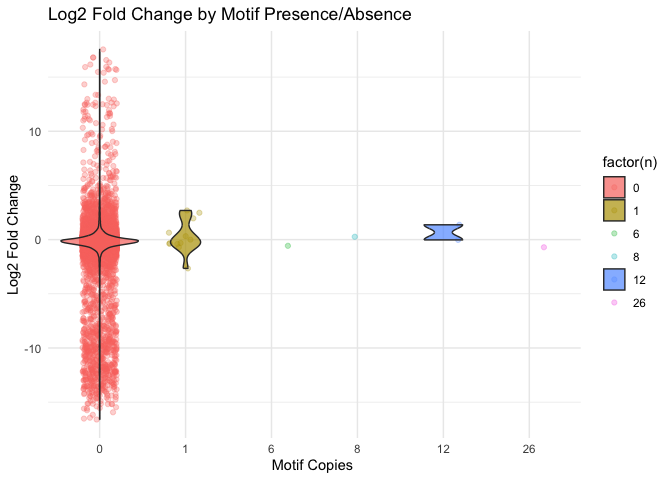
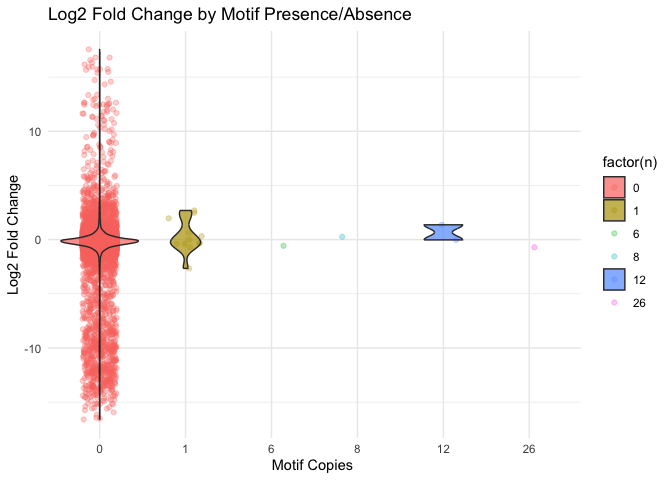
update TF plots

diff --git a/code/04-TFs.md b/code/04-TFs.md
@@ -837,7 +837,7 @@ fimo_counts_DE <- fimo_counts %>% filter(padj < 0.05)
 fimo_counts %>% mutate(n_motif= as.character(n_motif)) %>% 
   tidyplot(x = n_motif,  y = log2FoldChange, color = n_motif) %>%
   add_data_points_jitter(size = 1.5, jitter_width = 0.5, alpha=0.5) %>%
-  add_violin(alpha = 0.8,color="black", width=0.3, linewidth = 0.5, trim=TRUE)  %>%
+  add_violin(alpha = 0.8,color="black", width=0.3, linewidth = 0.5, trim=TRUE) %>%
   add_mean_dot(color="black",shape=23, fill="white", size=2) %>%
   adjust_y_axis(limits = c(-17,19.9)) %>%
   add_title("Log Fold Change by Motif Presence: All Genes") %>%
@@ -849,13 +849,59 @@ fimo_counts %>% mutate(n_motif= as.character(n_motif)) %>%
   theme_minimal_y(fontsize = 14) %>% remove_x_axis_ticks() %>%
   remove_legend() %>% remove_x_axis_line() %>% 
   adjust_title(face = "bold") %>%
-  save_plot("../output_RNA/differential_expression/TFs/fimo_output_upOralEpi/fimo_motif6.png",
+  save_plot("../output_RNA/differential_expression/TFs/fimo_output_upOralEpi/fimo_motif3.png",
             width = 8, height = 6, units="in",bg = "transparent")
 ```
 
-    ## ✔ save_plot: saved to '../output_RNA/differential_expression/TFs/fimo_output_upOralEpi/fimo_motif6.png'
+    ## ✔ save_plot: saved to '../output_RNA/differential_expression/TFs/fimo_output_upOralEpi/fimo_motif3.png'
 
 ![](04-TFs_files/figure-gfm/unnamed-chunk-13-1.png)<!-- -->
+
+``` r
+fimo_counts %>% mutate(n_motif= as.character(n_motif)) %>% 
+  tidyplot(x = log2FoldChange, color = n_motif) %>% 
+  adjust_size(width = NA, height = NA) %>%
+  add_reference_lines(x=0) %>%
+  add(ggplot2::geom_density(alpha=0.4,  aes(x = log2FoldChange,after_stat(scaled))))  %>%
+  add(coord_cartesian(ylim = c(0, 0.03))) %>%
+  add_title("Log Fold Change by Motif Presence: All Genes") %>%
+  adjust_y_axis_title("Density") %>% 
+  adjust_x_axis_title("$Log[2]~Fold~Change$") %>%
+  adjust_legend_title("Motif Count") %>%
+  #adjust_colors(new_colors= c("#66C2A5", "#FC8D62", "#8DA0CB"))  %>%
+  adjust_size(width = NA, height = NA) %>%
+  theme_minimal_y(fontsize = 14) %>% 
+  adjust_title(face = "bold") %>%
+  save_plot("../output_RNA/differential_expression/TFs/fimo_output_upOralEpi/fimo_motif3_density.png",
+            width = 8, height = 6, units="in",bg = "transparent")
+```
+
+    ## ✔ save_plot: saved to '../output_RNA/differential_expression/TFs/fimo_output_upOralEpi/fimo_motif3_density.png'
+
+![](04-TFs_files/figure-gfm/unnamed-chunk-13-2.png)<!-- -->
+
+``` r
+fimo_counts %>% mutate(n_motif= as.character(n_motif)) %>% 
+  tidyplot(x = log2FoldChange, color = n_motif) %>% 
+  adjust_size(width = NA, height = NA) %>%
+  add_reference_lines(x=0) %>%
+  add(ggplot2::geom_density(alpha=0.4,  aes(x = log2FoldChange,after_stat(scaled))))  %>%
+  #add(coord_cartesian(ylim = c(0, 0.05))) %>%
+  add_title("Log Fold Change by Motif Presence: All Genes") %>%
+  adjust_y_axis_title("Density") %>% 
+  adjust_x_axis_title("$Log[2]~Fold~Change$") %>%
+  adjust_legend_title("Motif Count") %>%
+  #adjust_colors(new_colors= c("#66C2A5", "#FC8D62", "#8DA0CB"))  %>%
+  adjust_size(width = NA, height = NA) %>%
+  theme_minimal_y(fontsize = 14) %>% 
+  adjust_title(face = "bold") %>%
+  save_plot("../output_RNA/differential_expression/TFs/fimo_output_upOralEpi/fimo_motif3_density_full.png",
+            width = 8, height = 6, units="in",bg = "transparent")
+```
+
+    ## ✔ save_plot: saved to '../output_RNA/differential_expression/TFs/fimo_output_upOralEpi/fimo_motif3_density_full.png'
+
+![](04-TFs_files/figure-gfm/unnamed-chunk-13-3.png)<!-- -->
 
 ``` r
 fimo_counts_DE  %>% mutate(n_motif= as.character(n_motif)) %>% 
@@ -873,13 +919,59 @@ fimo_counts_DE  %>% mutate(n_motif= as.character(n_motif)) %>%
   theme_minimal_y(fontsize = 15) %>% remove_x_axis_ticks() %>%
   remove_legend() %>% remove_x_axis_line() %>% 
   adjust_title(face = "bold") %>%
-  save_plot("../output_RNA/differential_expression/TFs/fimo_output_upOralEpi/fimo_motif6_DE.png",
+  save_plot("../output_RNA/differential_expression/TFs/fimo_output_upOralEpi/fimo_motif3_DE.png",
             width = 8, height = 6, units="in", bg = "transparent")
 ```
 
-    ## ✔ save_plot: saved to '../output_RNA/differential_expression/TFs/fimo_output_upOralEpi/fimo_motif6_DE.png'
+    ## ✔ save_plot: saved to '../output_RNA/differential_expression/TFs/fimo_output_upOralEpi/fimo_motif3_DE.png'
 
-![](04-TFs_files/figure-gfm/unnamed-chunk-13-2.png)<!-- -->
+![](04-TFs_files/figure-gfm/unnamed-chunk-13-4.png)<!-- -->
+
+``` r
+fimo_counts_DE %>% mutate(n_motif= as.character(n_motif)) %>% 
+  tidyplot(x = log2FoldChange, color = n_motif) %>% 
+  adjust_size(width = NA, height = NA) %>%
+  add_reference_lines(x=0) %>%
+  add(ggplot2::geom_density(alpha=0.4,  aes(x = log2FoldChange,after_stat(scaled))))  %>%
+  add(coord_cartesian(ylim = c(0, 0.15))) %>%
+  add_title("Log Fold Change by Motif Presence: DE Genes") %>%
+  adjust_y_axis_title("Density") %>% 
+  adjust_x_axis_title("$Log[2]~Fold~Change$") %>%
+  adjust_legend_title("Motif Count") %>%
+  #adjust_colors(new_colors= c("#66C2A5", "#FC8D62", "#8DA0CB"))  %>%
+  adjust_size(width = NA, height = NA) %>%
+  theme_minimal_y(fontsize = 14) %>% 
+  adjust_title(face = "bold") %>%
+  save_plot("../output_RNA/differential_expression/TFs/fimo_output_upOralEpi/fimo_motif3_DE_density.png",
+            width = 8, height = 6, units="in",bg = "transparent")
+```
+
+    ## ✔ save_plot: saved to '../output_RNA/differential_expression/TFs/fimo_output_upOralEpi/fimo_motif3_DE_density.png'
+
+![](04-TFs_files/figure-gfm/unnamed-chunk-13-5.png)<!-- -->
+
+``` r
+fimo_counts_DE %>% mutate(n_motif= as.character(n_motif)) %>% 
+  tidyplot(x = log2FoldChange, color = n_motif) %>% 
+  adjust_size(width = NA, height = NA) %>%
+  add_reference_lines(x=0) %>%
+  add(ggplot2::geom_density(alpha=0.4,  aes(x = log2FoldChange,after_stat(scaled))))  %>%
+  #add(coord_cartesian(ylim = c(0, 0.25))) %>%
+  add_title("Log Fold Change by Motif Presence: DE Genes") %>%
+  adjust_y_axis_title("Density") %>% 
+  adjust_x_axis_title("$Log[2]~Fold~Change$") %>%
+  adjust_legend_title("Motif Count") %>%
+  #adjust_colors(new_colors= c("#66C2A5", "#FC8D62", "#8DA0CB"))  %>%
+  adjust_size(width = NA, height = NA) %>%
+  theme_minimal_y(fontsize = 14) %>% 
+  adjust_title(face = "bold") %>%
+  save_plot("../output_RNA/differential_expression/TFs/fimo_output_upOralEpi/fimo_motif3_DE_density_full.png",
+            width = 8, height = 6, units="in",bg = "transparent")
+```
+
+    ## ✔ save_plot: saved to '../output_RNA/differential_expression/TFs/fimo_output_upOralEpi/fimo_motif3_DE_density_full.png'
+
+![](04-TFs_files/figure-gfm/unnamed-chunk-13-6.png)<!-- -->
 
 **Wow! It looks like the presence of this motif may be reflected in
 log2FoldChange! The genes with 1 or 2 sites have predominately negative
@@ -945,11 +1037,11 @@ fimo_counts %>% mutate(n_motif = as.character(n_motif)) %>%
   adjust_x_axis_title("Number of Motifs in Promoter") %>%
   adjust_title(face = "bold") %>% 
   add(ggpubr::stat_pvalue_manual(fisher_allgenes)) %>%
-  save_plot("../output_RNA/differential_expression/TFs/fimo_output_upOralEpi/fimo_motif6_LFC_direction.png",
+  save_plot("../output_RNA/differential_expression/TFs/fimo_output_upOralEpi/fimo_motif3_LFC_direction.png",
             width = 8, height = 6, units="in",bg = "transparent") 
 ```
 
-    ## ✔ save_plot: saved to '../output_RNA/differential_expression/TFs/fimo_output_upOralEpi/fimo_motif6_LFC_direction.png'
+    ## ✔ save_plot: saved to '../output_RNA/differential_expression/TFs/fimo_output_upOralEpi/fimo_motif3_LFC_direction.png'
 
 ![](04-TFs_files/figure-gfm/unnamed-chunk-15-1.png)<!-- -->
 
@@ -966,11 +1058,11 @@ fimo_counts_DE %>% mutate(n_motif = as.character(n_motif)) %>%
   adjust_x_axis_title("Number of Motifs in Promoter") %>%
   adjust_title(face = "bold") %>% 
   add(ggpubr::stat_pvalue_manual(fisher_DE)) %>%
-  save_plot("../output_RNA/differential_expression/TFs/fimo_output_upOralEpi/fimo_motif6_LFC_direction_DE.png",
+  save_plot("../output_RNA/differential_expression/TFs/fimo_output_upOralEpi/fimo_motif3_LFC_direction_DE.png",
             width = 8, height = 6, units="in",bg = "transparent") 
 ```
 
-    ## ✔ save_plot: saved to '../output_RNA/differential_expression/TFs/fimo_output_upOralEpi/fimo_motif6_LFC_direction_DE.png'
+    ## ✔ save_plot: saved to '../output_RNA/differential_expression/TFs/fimo_output_upOralEpi/fimo_motif3_LFC_direction_DE.png'
 
 ![](04-TFs_files/figure-gfm/unnamed-chunk-15-2.png)<!-- -->
 
